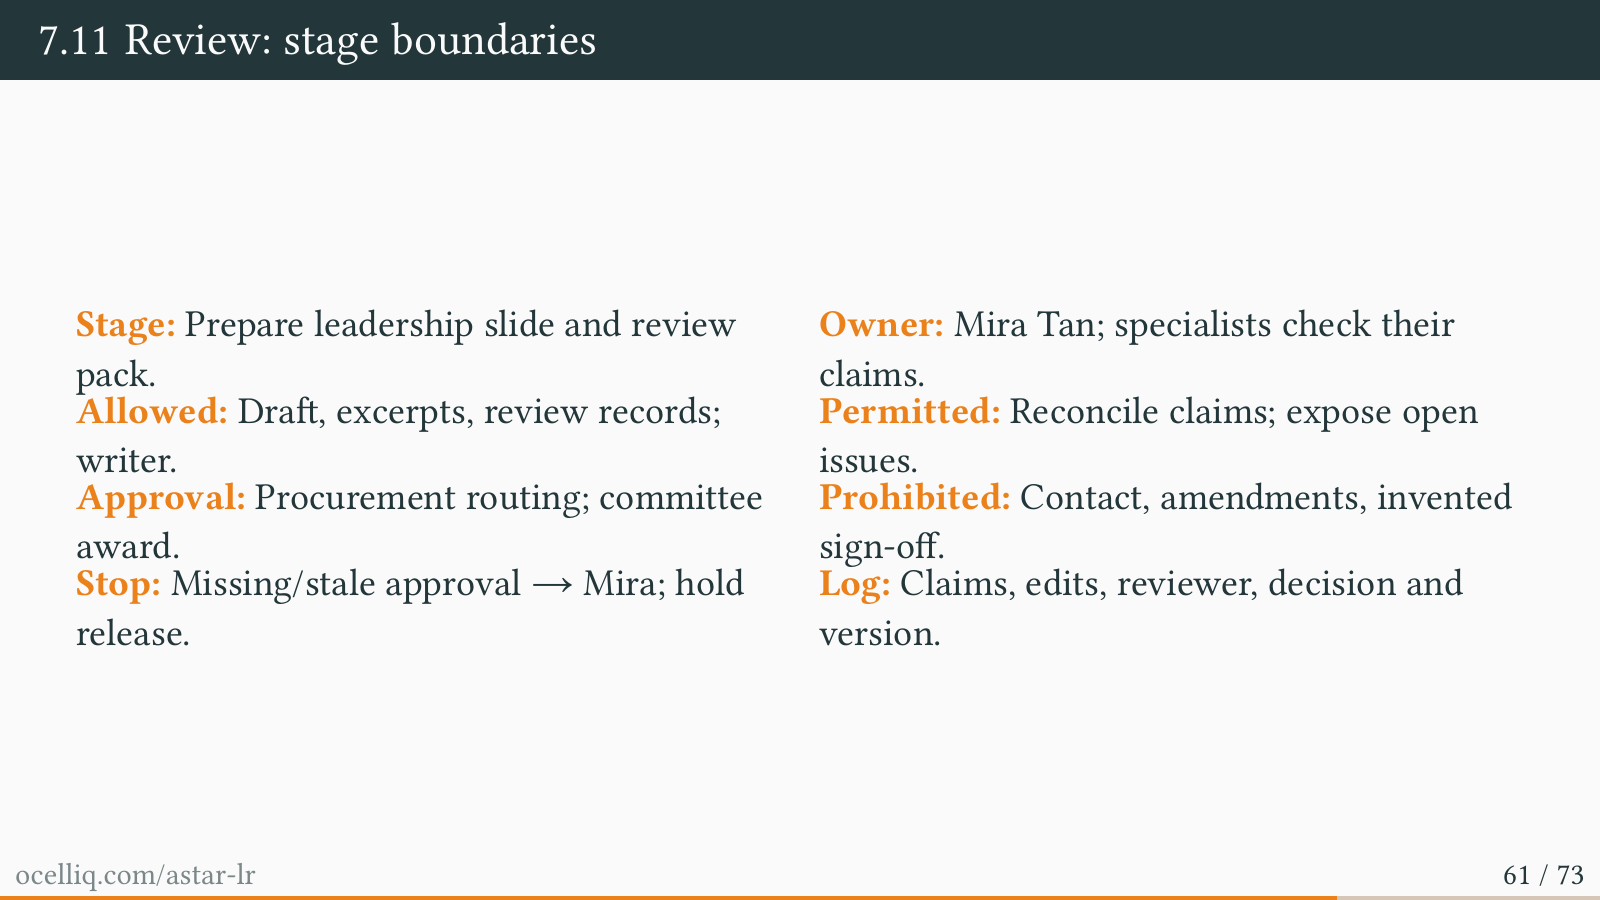
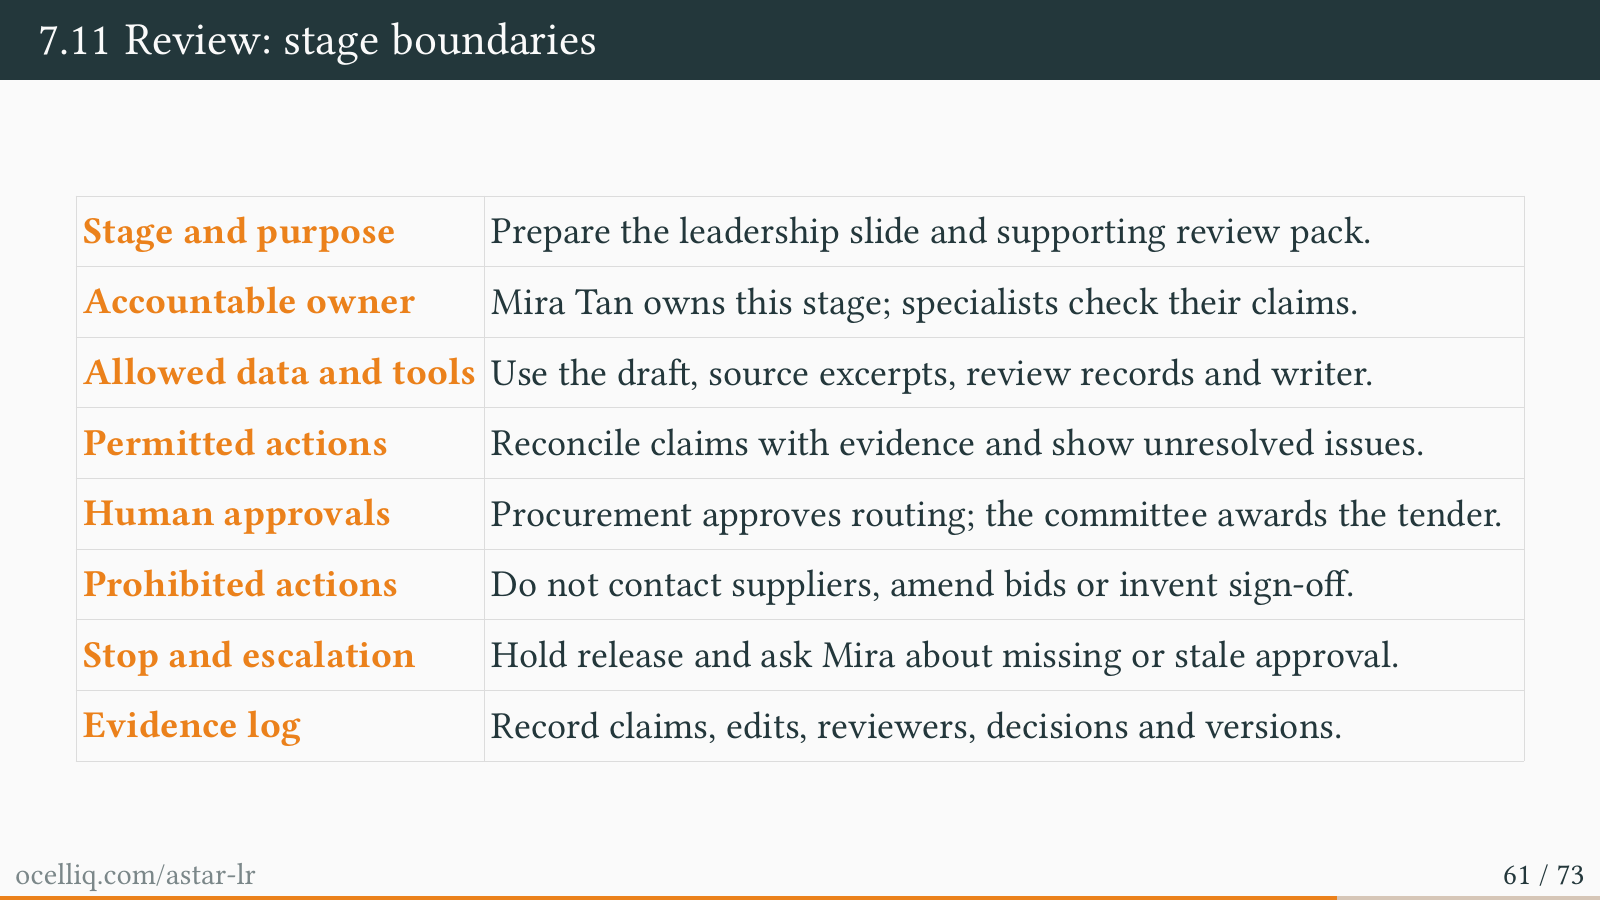
Refresh stage boundary slide tables

diff --git a/.claude/skills/slides/resources/slides.md b/.claude/skills/slides/resources/slides.md
@@ -1324,22 +1324,18 @@ ocelliq.com/astar-lr                                                            
 7.5 Verify: stage boundaries
 
 
-
-
-     Stage and purpose      Each bidder’s verifier checks all seven mandatory gates.
-     Accountable owner      The Evaluation Panel is accountable for each gate decision.
+     Stage and purpose         Each bidder’s verifier checks all seven mandatory gates.
+     Accountable owner         The Evaluation Panel is accountable for each gate decision.
      Allowed data and tools Use only the criteria, assigned bid, reader and calculator.
-     Permitted actions      Recommend pass, fail or unresolved for each gate.
-     Human approvals        The Panel approves gates; Procurement, Finance or the PI
-                            resolves disputes.
-     Prohibited actions     Do not invent terms, use rival bids or contact suppliers.
-     Stop and escalation    Pause until the responsible reviewer resolves missing or
-                            conflicting evidence.
-     Evidence log           Record sources, calculations, gate results and open issues.
+     Permitted actions         Recommend pass, fail or unresolved for each gate.
+     Human approvals           The Panel approves gates; Procurement, Finance or the PI
+                               resolves disputes.
+     Prohibited actions        Do not invent terms, use rival bids or contact suppliers.
+     Stop and escalation       Pause until the responsible reviewer resolves missing or
+                               conflicting evidence.
+     Evidence log              Record sources, calculations, gate results and open issues.
 
-
-
-ocelliq.com/astar-lr                                                                      55 / 73
+ocelliq.com/astar-lr                                                                         55 / 73
 
 ## Slide 56 · PDF page 87 · Ingest:preserve the evidence
 
@@ -1373,20 +1369,17 @@ ocelliq.com/astar-lr                                                            
 
 
 
-
-     Stage: Extract criteria and source packets.    Owner: Mira Tan, Procurement.
-     Allowed: This case; scoped reader/extractor.   Permitted: Extract, classify and cite sources.
-                                                    Prohibited: Other cases, source edits,
-     Approval: Mira; PI and Finance checks.
-                                                    sending.
-     Stop: Unclear criteria → Mira; resolve
-                                                    Log: Files, clauses, versions and exceptions.
-     before handoff.
-
+     Stage and purpose        Extract the criteria and prepare source packets.
+     Accountable owner        Mira Tan in Procurement owns this stage.
+     Allowed data and tools Use only this case and a scoped reader or extractor.
+     Permitted actions        Extract and classify evidence, citing its source.
+     Human approvals          Mira approves criteria; the PI and Finance check their parts.
+     Prohibited actions       Do not read other cases, edit sources or send material.
+     Stop and escalation      Ask Mira to resolve unclear criteria before handoff.
+     Evidence log             Record files, source locations, versions and exceptions.
 
 
-
-ocelliq.com/astar-lr                                                                                57 / 73
+ocelliq.com/astar-lr                                                                          57 / 73
 
 ## Slide 58 · PDF page 92 · Draft:settle gates before scoring
 
@@ -1419,21 +1412,17 @@ ocelliq.com/astar-lr                                                            
 
 
 
-
-     Stage: Synthesise results and calculate
-                                                  Owner: Evaluation Panel; Joel checks costs.
-     scores.
-     Allowed: Reviewed packets; calculator/       Permitted: Score eligible bids; draft
-     writer.                                      narrative.
-     Approval: Panel gates/scores; Finance        Prohibited: New scores, invented prices,
-     arithmetic.                                  award.
-     Stop: Open gate/stale packet → originating   Log: Input versions, formulae and draft
-     reviewer.                                    changes.
+     Stage and purpose        Combine verification results and calculate scores.
+     Accountable owner        The Evaluation Panel owns this stage; Joel checks costs.
+     Allowed data and tools Use reviewed packets, a calculator and a draft writer.
+     Permitted actions        Score only eligible bids and draft the recommendation.
+     Human approvals          The Panel approves gates and scores; Finance checks sums.
+     Prohibited actions       Do not invent scores or prices, or award the tender.
+     Stop and escalation      Return open gates or stale packets to their reviewer.
+     Evidence log             Record input versions, formulae, open issues and edits.
 
 
-
-
-ocelliq.com/astar-lr                                                                            59 / 73
+ocelliq.com/astar-lr                                                                      59 / 73
 
 ## Slide 60 · PDF page 97 · Review:make human approval meaningful
 
@@ -1467,17 +1456,14 @@ ocelliq.com/astar-lr                                                            
 
 
 
-
-     Stage: Prepare leadership slide and review   Owner: Mira Tan; specialists check their
-     pack.                                        claims.
-     Allowed: Draft, excerpts, review records;    Permitted: Reconcile claims; expose open
-     writer.                                      issues.
-     Approval: Procurement routing; committee     Prohibited: Contact, amendments, invented
-     award.                                       sign-off.
-     Stop: Missing/stale approval → Mira; hold    Log: Claims, edits, reviewer, decision and
-     release.                                     version.
-
-
+     Stage and purpose        Prepare the leadership slide and supporting review pack.
+     Accountable owner        Mira Tan owns this stage; specialists check their claims.
+     Allowed data and tools Use the draft, source excerpts, review records and writer.
+     Permitted actions        Reconcile claims with evidence and show unresolved issues.
+     Human approvals          Procurement approves routing; the committee awards the tender.
+     Prohibited actions       Do not contact suppliers, amend bids or invent sign-off.
+     Stop and escalation      Hold release and ask Mira about missing or stale approval.
+     Evidence log             Record claims, edits, reviewers, decisions and versions.
 
 
 ocelliq.com/astar-lr                                                                       61 / 73
